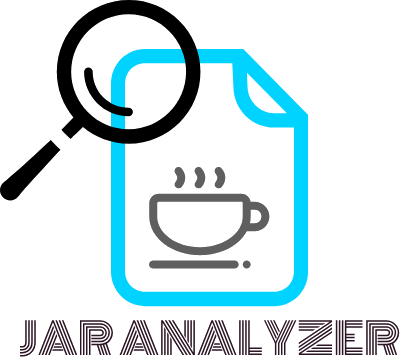
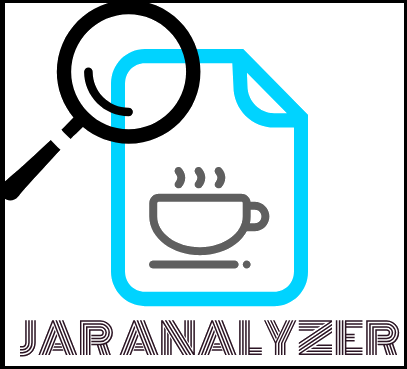
12.38

Changed region(s): [[0.0, 0.0, 1.0, 1.0], [0.6, 0.3081, 0.63, 0.3389], [0.39, 0.0616, 0.42, 0.0924]]

diff --git a/src/proyecto3/interfaz/PantallaInicio/inicio.java b/src/proyecto3/interfaz/PantallaInicio/inicio.java
@@ -42,47 +42,42 @@ public class inicio extends javax.swing.JFrame {
     // <editor-fold defaultstate="collapsed" desc="Generated Code">//GEN-BEGIN:initComponents
     private void initComponents() {
 
-        jLabel1 = new javax.swing.JLabel();
-        text = new javax.swing.JLabel();
         barraP = new javax.swing.JProgressBar();
+        jLabel2 = new javax.swing.JLabel();
 
         setDefaultCloseOperation(javax.swing.WindowConstants.EXIT_ON_CLOSE);
         setAlwaysOnTop(true);
         setCursor(new java.awt.Cursor(java.awt.Cursor.WAIT_CURSOR));
+        setMaximumSize(new java.awt.Dimension(407, 420));
         setUndecorated(true);
-        setPreferredSize(new java.awt.Dimension(400, 412));
+        setPreferredSize(new java.awt.Dimension(407, 420));
         addWindowListener(new java.awt.event.WindowAdapter() {
             public void windowActivated(java.awt.event.WindowEvent evt) {
                 formWindowActivated(evt);
             }
         });
 
-        jLabel1.setIcon(new javax.swing.ImageIcon(getClass().getResource("/proyecto3/interfaz/Imagenes/JarAnlyzer.png"))); // NOI18N
-
-        text.setFont(new java.awt.Font("Gill Sans Ultra Bold", 1, 14)); // NOI18N
-        text.setForeground(new java.awt.Color(0, 153, 153));
+        jLabel2.setIcon(new javax.swing.ImageIcon(getClass().getResource("/proyecto3/interfaz/Imagenes/JarAnlyzer.png"))); // NOI18N
 
         javax.swing.GroupLayout layout = new javax.swing.GroupLayout(getContentPane());
         getContentPane().setLayout(layout);
         layout.setHorizontalGroup(
-            layout.createParallelGroup(javax.swing.GroupLayout.Alignment.LEADING)
-            .addComponent(barraP, javax.swing.GroupLayout.Alignment.TRAILING, javax.swing.GroupLayout.DEFAULT_SIZE, javax.swing.GroupLayout.DEFAULT_SIZE, Short.MAX_VALUE)
-            .addComponent(jLabel1, javax.swing.GroupLayout.DEFAULT_SIZE, javax.swing.GroupLayout.DEFAULT_SIZE, Short.MAX_VALUE)
+            layout.createParallelGroup(javax.swing.GroupLayout.Alignment.TRAILING)
             .addGroup(layout.createSequentialGroup()
-                .addComponent(text, javax.swing.GroupLayout.DEFAULT_SIZE, javax.swing.GroupLayout.DEFAULT_SIZE, Short.MAX_VALUE)
-                .addGap(150, 150, 150))
+                .addGap(0, 0, Short.MAX_VALUE)
+                .addGroup(layout.createParallelGroup(javax.swing.GroupLayout.Alignment.LEADING)
+                    .addComponent(barraP, javax.swing.GroupLayout.PREFERRED_SIZE, 407, javax.swing.GroupLayout.PREFERRED_SIZE)
+                    .addComponent(jLabel2, javax.swing.GroupLayout.Alignment.TRAILING))
+                .addContainerGap())
         );
         layout.setVerticalGroup(
             layout.createParallelGroup(javax.swing.GroupLayout.Alignment.LEADING)
             .addGroup(layout.createSequentialGroup()
-                .addComponent(jLabel1)
+                .addComponent(jLabel2)
                 .addPreferredGap(javax.swing.LayoutStyle.ComponentPlacement.RELATED)
-                .addComponent(text, javax.swing.GroupLayout.PREFERRED_SIZE, 21, javax.swing.GroupLayout.PREFERRED_SIZE)
-                .addPreferredGap(javax.swing.LayoutStyle.ComponentPlacement.RELATED, javax.swing.GroupLayout.DEFAULT_SIZE, Short.MAX_VALUE)
-                .addComponent(barraP, javax.swing.GroupLayout.PREFERRED_SIZE, 24, javax.swing.GroupLayout.PREFERRED_SIZE))
+                .addComponent(barraP, javax.swing.GroupLayout.PREFERRED_SIZE, 24, javax.swing.GroupLayout.PREFERRED_SIZE)
+                .addContainerGap(javax.swing.GroupLayout.DEFAULT_SIZE, Short.MAX_VALUE))
         );
-
-        text.getAccessibleContext().setAccessibleName("text");
 
         pack();
     }// </editor-fold>//GEN-END:initComponents
@@ -113,11 +108,9 @@ private class hilo extends Thread{
                 barraP.setValue(auxiliar);
                 repaint();
                 switch(auxiliar){
-                    case 0 :
-                        text.setText("Cargando Programa...");
-                        break;
+                   
                     case 50:
-                        text.setText("Carga Finalizada");
+                       
                         pantallaP pantallap = new pantallaP();
                         pantallap.setVisible(true);
                         pantallap.setLocationRelativeTo(inicio.this);
@@ -136,8 +129,7 @@ private class hilo extends Thread{
 
     // Variables declaration - do not modify//GEN-BEGIN:variables
     private javax.swing.JProgressBar barraP;
-    private javax.swing.JLabel jLabel1;
-    private javax.swing.JLabel text;
+    private javax.swing.JLabel jLabel2;
     // End of variables declaration//GEN-END:variables
 }
 
